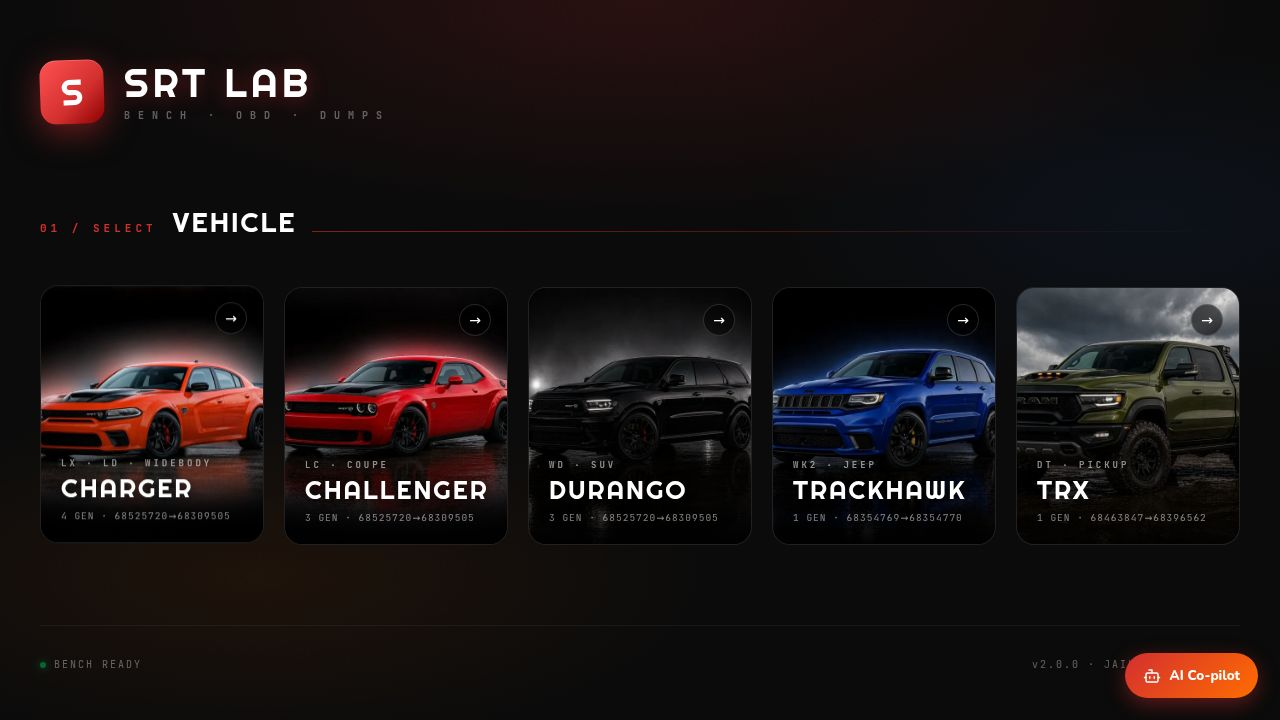
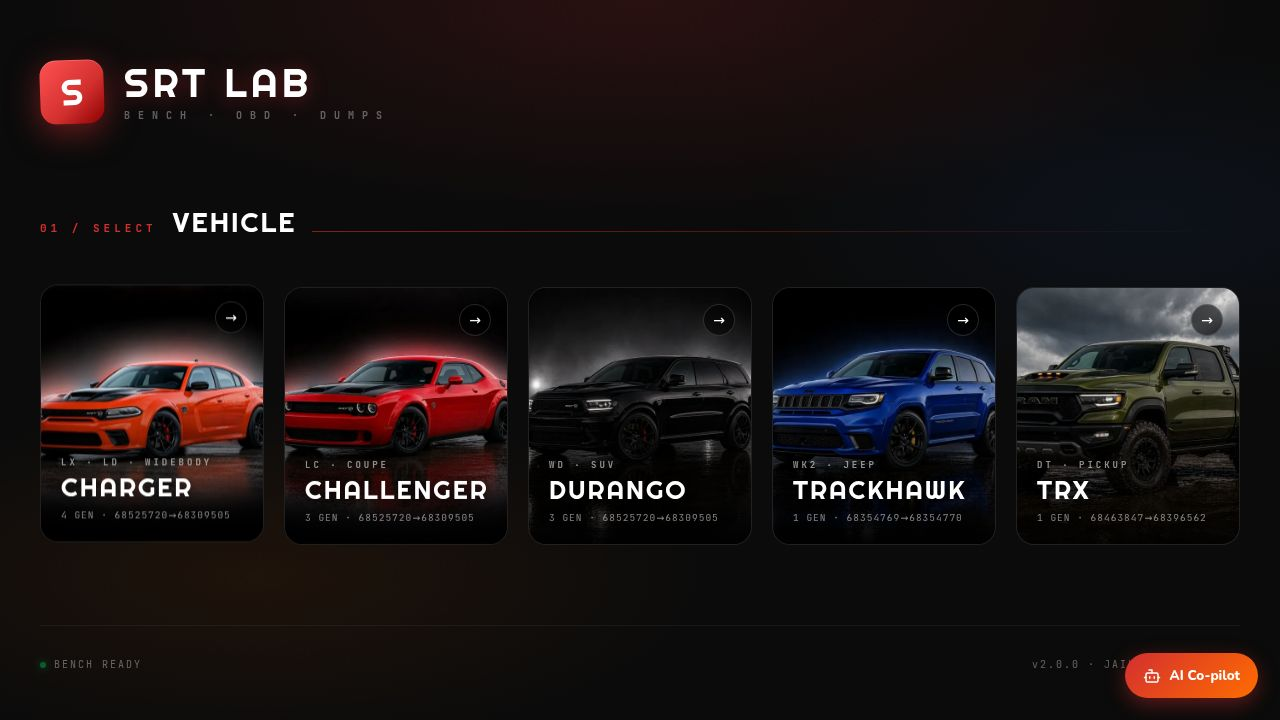
Task #1037: Save repaired PCM dump back into the workspace
Close the GPEC2A immo-fix loop so techs no longer have to download a
patched .bin and re-load it through the Dumps/ECM inspector.

Changes:
- Gpec2aImmoPanel.jsx: added optional `onPatched(bytes, filename)` prop.
  After "Apply changes" or "Just FIX IT" (download behavior preserved),
  the patched buffer + suggested filename are stashed in new `patched`
  state. A green "SAVE BACK TO WORKSPACE" card surfaces an "ADD PATCHED
  DUMP TO WORKSPACE & RE-ANALYZE" button (testid gpec2a-pushback-btn)
  that hands the bytes to the parent and clears the stash.
- EcmTab.jsx: added `onPatchedDump` handler that parses the patched
  bytes via parseModule (auto-detects GPEC2A), pushes them via addDump
  (source label "GPEC2A immo-fix"), and selects the new dump
  (setInspectHash). Selecting the new entry re-feeds the panel's `mod`
  prop, so the analysis/IMMO/SEC6 cards re-derive in place and flip to
  synced without a manual reload.

Notes/deviations:
- Implemented as an explicit opt-in button (task said "an option to add
  the patched bytes back") rather than auto-pushing, so the existing
  download-only flow is unchanged unless the tech clicks.
- Checksum row "Fix & download" was left as download-only (out of the
  two flows named in the task).

Verification: srt-lab typecheck passes; gpec2aPcmAnalyzer tests (15)
pass; web workflow starts cleanly with no console errors.

Replit-Task-Id: c82ae832-c9e7-4c9d-8543-762d204aee56

Changed region(s): [[0.0312, 0.4889, 0.2188, 0.7333]]

diff --git a/artifacts/srt-lab/src/components/Gpec2aImmoPanel.jsx b/artifacts/srt-lab/src/components/Gpec2aImmoPanel.jsx
@@ -73,7 +73,7 @@ function MiniCard({title, accent = C.sr, children, badge}) {
 const labelStyle = {fontSize: 10, fontWeight: 800, color: C.ts, letterSpacing: 0.6, textTransform: "uppercase", marginBottom: 4};
 const inputStyle = {padding: "8px 10px", borderRadius: 8, border: "1.5px solid " + C.bd, background: C.cd, fontFamily: mono, fontSize: 12, color: C.tx, width: "100%", boxSizing: "border-box"};
 
-export default function Gpec2aImmoPanel({mod, donorMods = []}) {
+export default function Gpec2aImmoPanel({mod, donorMods = [], onPatched = null}) {
   const bytes = mod?.data || null;
   const baseName = (mod?.filename || "gpec2a.bin").replace(/\.[^.]+$/, "");
 
@@ -100,6 +100,10 @@ export default function Gpec2aImmoPanel({mod, donorMods = []}) {
   const [fixImmo, setFixImmo] = useState(true);
   const [msg, setMsg] = useState("");
   const [err, setErr] = useState("");
+  // Holds the most recent patched buffer so it can be pushed straight back
+  // into the shared workspace (re-analyzed in place) instead of forcing a
+  // download-then-reload round trip. Cleared once pushed back.
+  const [patched, setPatched] = useState(null);
 
   const donorHex = donor ? Array.from(donor.sec6).map((b) => b.toString(16).toUpperCase().padStart(2, "0")).join(" ") : "";
 
@@ -116,7 +120,9 @@ export default function Gpec2aImmoPanel({mod, donorMods = []}) {
       setErr(res.error);
       return;
     }
-    dl(res.bytes, baseName + "_patched.bin");
+    const fname = baseName + "_patched.bin";
+    dl(res.bytes, fname);
+    setPatched({bytes: res.bytes, filename: fname, summary: res.changes.join(" · ")});
     setMsg("Applied: " + res.changes.join(" · ") + " → downloaded.");
   }, [bytes, newVin, alsoWriteCe0, sec6Hex, fixImmo, baseName]);
 
@@ -134,7 +140,9 @@ export default function Gpec2aImmoPanel({mod, donorMods = []}) {
       setErr(res.error);
       return;
     }
-    dl(res.bytes, baseName + "_immoFix.bin");
+    const fname = baseName + "_immoFix.bin";
+    dl(res.bytes, fname);
+    setPatched({bytes: res.bytes, filename: fname, summary: "IMMO marker + SEC6 " + res.sec6Hex});
     setMsg(
       "IMMO repaired (" +
         (manual ? "manual SEC6" : "from " + (donor?.source || "donor")) +
@@ -143,6 +151,14 @@ export default function Gpec2aImmoPanel({mod, donorMods = []}) {
         " → downloaded."
     );
   }, [bytes, sec6Hex, donor, baseName]);
+
+  const onPushBack = useCallback(() => {
+    if (!patched || typeof onPatched !== "function") return;
+    onPatched(patched.bytes, patched.filename);
+    setPatched(null);
+    setErr("");
+    setMsg("Patched dump (" + patched.summary + ") added to workspace — re-analyzing in place.");
+  }, [patched, onPatched]);
 
   if (!bytes || !analysis) return null;
 
@@ -425,6 +441,20 @@ export default function Gpec2aImmoPanel({mod, donorMods = []}) {
           🛠️ ONLY FIX IMMO AND DOWNLOAD
         </Btn>
       </Card>
+
+      {/* ── Push patched bytes back into the shared workspace ── */}
+      {patched && typeof onPatched === "function" && (
+        <Card style={{marginBottom: 14, borderLeft: "3px solid " + C.gn}}>
+          <div style={{fontWeight: 800, fontSize: 11, color: C.gn, marginBottom: 4, letterSpacing: 2}}>📥 SAVE BACK TO WORKSPACE</div>
+          <div style={{fontSize: 10, color: C.tm, marginBottom: 12}}>
+            Add the patched bytes ({patched.summary}) into the shared workspace as a new GPEC2A dump and re-analyze it
+            here in place — no manual reload through the Dumps / ECM inspector. The download above is still saved to disk.
+          </div>
+          <Btn color={C.gn} full onClick={onPushBack} data-testid="gpec2a-pushback-btn">
+            📥 ADD PATCHED DUMP TO WORKSPACE &amp; RE-ANALYZE
+          </Btn>
+        </Card>
+      )}
 
       {(msg || err) && (
         <div

diff --git a/artifacts/srt-lab/src/tabs/EcmTab.jsx b/artifacts/srt-lab/src/tabs/EcmTab.jsx
@@ -92,6 +92,15 @@ export default function EcmTab({vehicle}){
     if(inspectEntry)removeDump(inspectEntry.hash);
     setInspectHash(null);setInspectMsg('');setInspectErr('');setInspectTooSmall(null);
   },[inspectEntry,removeDump]);
+  // Task #1037 — push a patched GPEC2A buffer from the immo-fix panel straight
+  // back into the shared workspace as a new dump, then select it so the panel
+  // re-analyzes the patched result in place (no manual reload).
+  const onPatchedDump=useCallback((bytes,filename)=>{
+    const m=parseModule(bytes,filename||'gpec2a_patched.bin');
+    if(!m||m.type!=='GPEC2A'){setInspectErr('Patched buffer did not re-parse as GPEC2A — not added to workspace.');return;}
+    const entry=addDump(m,'GPEC2A immo-fix');
+    if(entry){setInspectHash(entry.hash);setInspectErr('');setInspectTooSmall(null);}
+  },[addDump]);
   const[conn,setConn]=useState(false);const[unlocked,setUnlocked]=useState(false);
   const[busy,setBusy]=useState('');const[log,setLog]=useState([]);
   const[curVin,setCurVin]=useState(null);const[ecmInfo,setEcmInfo]=useState({});
@@ -415,7 +424,7 @@ export default function EcmTab({vehicle}){
         <IdentityCard bytes={ecmInspectMod.data}/>
       </div>}
       {ecmInspectMod&&ecmInspectMod.data&&!ecmInspectMod.corruptFill&&ecmInspectMod.type==='GPEC2A'&&
-        <Gpec2aImmoPanel mod={ecmInspectMod} donorMods={donorMods}/>}
+        <Gpec2aImmoPanel mod={ecmInspectMod} donorMods={donorMods} onPatched={onPatchedDump}/>}
     </Card>
     </DumpDropArea>
 